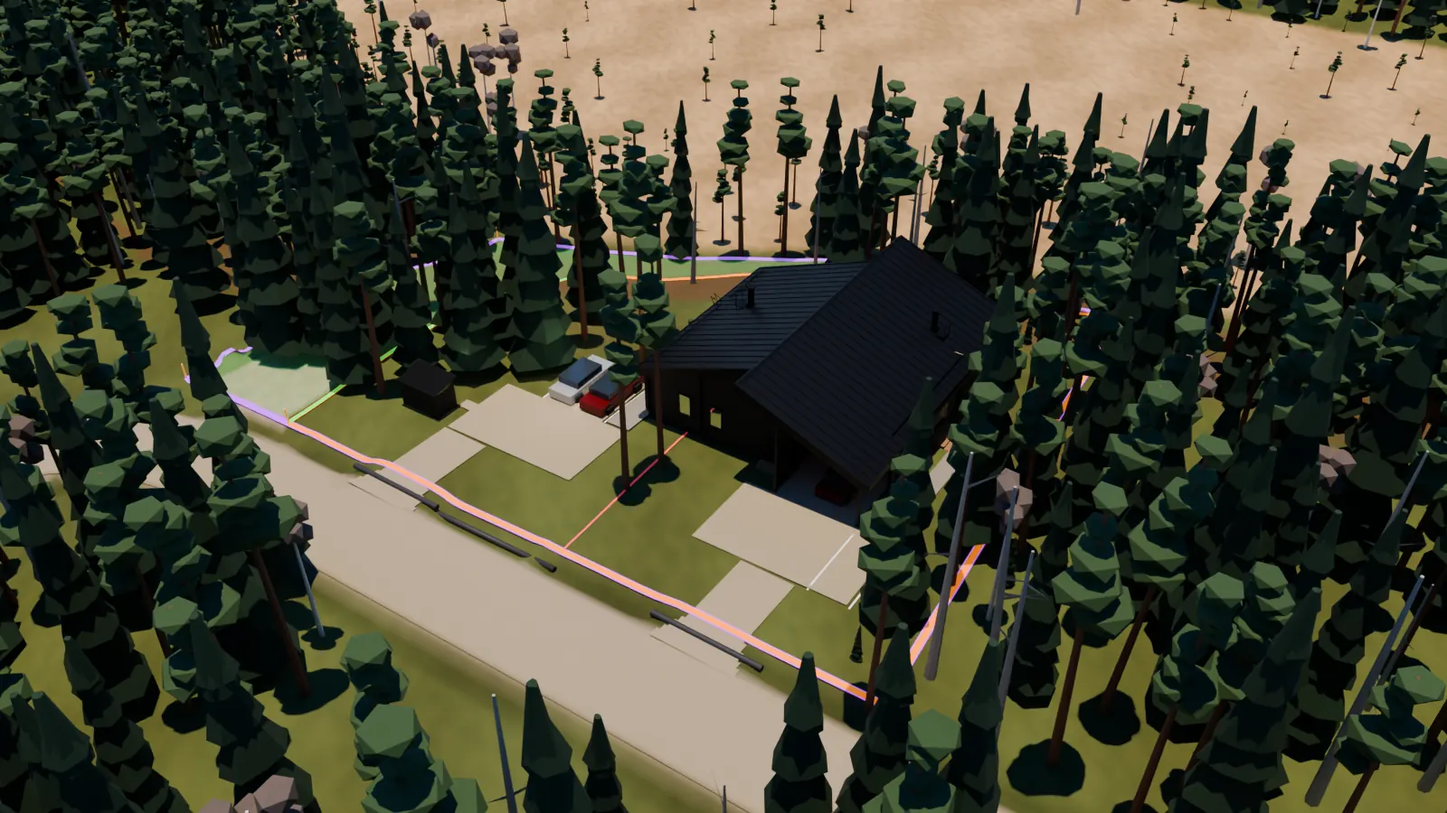
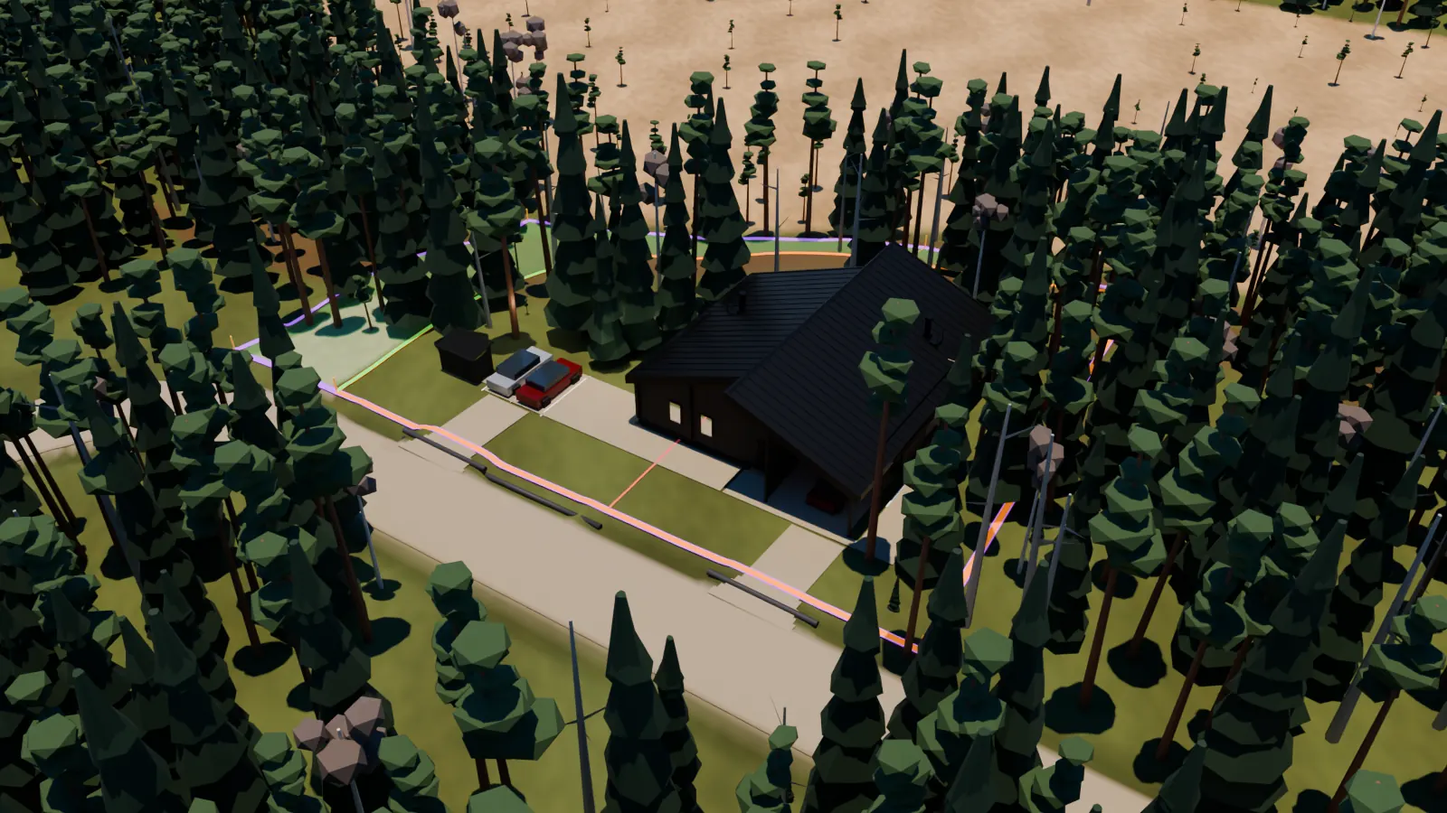
versio-c: päävaihtoehto C2 – talo 5,0 m pohjoiseen (seinät 7,4 m tierajasta), FFL +321,65, täyttö talon alle 53 m³ (ennen 95,5), L1 4,9 % / L2 4,2 %, omat paikat liittymien kohdalla, kuivatus itään; kuva 1 suolle + 3D-vertailunäkymät; C-vertailutaulukko

diff --git a/versio-c/index.html b/versio-c/index.html
@@ -1,7 +1,7 @@
 <!doctype html><html lang="fi"><head><meta charset="utf-8">
 <meta name="viewport" content="width=device-width,initial-scale=1,viewport-fit=cover">
 <title>Tontti 4 – paritalo – VERSIO C (kaavan mukainen tontti + viheralue, luonnos)</title>
-<meta name="tontti4-versio" content="versio-c-kaava-viheralue-kevyt">
+<meta name="tontti4-versio" content="versio-c2-kaava-viheralue-talo-5m-pohjoiseen">
 <meta name="robots" content="noindex">
 <style>
 :root{--bg:#9fc2e6;--card:rgba(20,22,26,.86);--fg:#f3f4f6;--mut:#c9ced6;--acc:#ffb74d;--grn:#81c784;--vio:#ce93d8}
@@ -22,87 +22,112 @@ table{width:100%;border-collapse:collapse;font-size:13px}td,th{border-bottom:1px
 ul{padding-left:20px;margin:6px 0}li{margin:3px 0}
 .note{font-size:13px;color:var(--mut)}.ok{color:var(--grn)}.warn{color:#ffcc80}
 a{color:#90caf9}
-</style></head><body>
+</style>
 <header>
 <div class="badge">Versio C – kaavan mukainen tontti + viheralue, luonnos</div>
 <h1>Joiku 184 -paritalo · tontti 4, Siimapolku, Ruka</h1>
-<p class="sub">Rukan asemakaava, muutos kortteleissa 199, 199A ja 200 – kortteli 199a, tontti 4 (RA 200 + t40). Myytävä määräala = kaavatontti + sen itä- ja eteläpuolinen viheralue. Kaksi liittymää Siimapolulta: <b>L1</b> asunnolle A (länsi, vuokra, parvi, autokatos) ja <b>L2</b> asunnolle B (itä). Kevyt mobiiliversio (kuvat), HD-versio tehdään myöhemmin.</p>
-<nav><a href="#luvut">Avainluvut</a><a href="#asema">Asemapiirros</a><a href="#korot">Korot</a><a href="#nakymat">3D-näkymät</a><a href="#liittymat">Liittymät</a><a href="#maa">Maarakennus</a><a href="#maaraala">Määräala</a><a href="#auki">Avoimet kysymykset</a></nav>
+<p class="sub"><b>Päävaihtoehto C2:</b> talo siirretty <b>5,0 m pohjoiseen</b> eli lähemmäs Siimapolkua (seinät nyt 7,4 m tierajasta, aiemmin 12,4 m), lattia <b>+321,65</b>. Kaksi liittymää: <b>L1</b> asunnolle A (länsi, vuokra, parvi, autokatos) ja <b>L2</b> asunnolle B (itä), kumpikin omille paikoilleen. Rukan asemakaava, kortteli 199a, tontti 4 (RA 200 + t40). Myytävä määräala = kaavatontti + viheralue VR. Kevyt mobiiliversio, HD-versio myöhemmin.</p>
+<nav><a href="#luvut">Avainluvut</a><a href="#vertailu">C vs. C2</a><a href="#asema">Asemapiirros</a><a href="#suo">Näkymä suolle</a><a href="#korot">Korot</a><a href="#nakymat">3D-näkymät</a><a href="#liittymat">Liittymät</a><a href="#maa">Maarakennus</a><a href="#maaraala">Määräala</a><a href="#auki">Avoimet kysymykset</a></nav>
 </header>
-<section id="luvut"><h2>Avainluvut</h2><div class="grid">
-<div class="k"><b>2 101,7 m²</b><span>myytävä määräala yhteensä (kuvasta mitattu 2 127,0 m²)</span></div>
-<div class="k"><b>1 559,1 m²</b><span>kaavatontti 4, RA (kuvasta 1 573,1 m²)</span></div>
-<div class="k"><b>542,6 m²</b><span>viheralue VR, ei rakennuksia (kuvasta 553,9 m²)</span></div>
-<div class="k"><b>+321,60</b><span>lattiakorko N2000 (ennallaan kaavasijoituksesta)</span></div>
-<div class="k"><b>199,9 / 200 k-m²</b><span>asuinrakennus (183,5 + parvi 16,44)</span></div>
-<div class="k"><b>38,3 / 40 m²</b><span>t-ala: autokatos 33,2 + jätekatos 5,1 (oletus)</span></div>
-<div class="k"><b>≈ 120 m³</b><span>täyttö yht. (talo 95,5 + piha/ajo 24,0), leikkaus ≈ 9 m³ – DEM</span></div>
-<div class="k"><b>4,2 % / 5,0 %</b><span>liittymien L1 / L2 kaltevuus</span></div>
-<div class="k"><b>4 ap</b><span>autokatos + PA (A), P1 + P2 (B); vaatimus 3</span></div>
-<div class="k"><b>285,5 m²</b><span>katot + autokatos = 18,1 % kaavatontista</span></div>
-<div class="k"><b>5,4 / 12,4 m</b><span>seinät länsirajaan / Siimapolun rajaan</span></div>
-<div class="k"><b>12,0 / 19,4 m</b><span>seinät etelä- / itärajaan (viheralue)</span></div>
+<section id="luvut"><h2>Avainluvut (C2)</h2><div class="grid">
+<div class="k"><b>5,0 m</b><span>siirto pohjoiseen (tietä kohti) aiemmasta C-sijainnista</span></div>
+<div class="k"><b>+321,65</b><span>lattiakorko N2000 (aiemmin +321,60)</span></div>
+<div class="k"><b>53,0 m³</b><span>täyttö talon alle (aiemmin 95,5 m³)</span></div>
+<div class="k"><b>≈ 80 m³</b><span>täyttö yht. (talo + piha/ajo 26,7), leikkaus ≈ 12 m³</span></div>
+<div class="k"><b>4,9 % / 4,2 %</b><span>liittymien L1 / L2 kaltevuus, laskee tontille</span></div>
+<div class="k"><b>0,75–1,40 m</b><span>terassipilarit (aiemmin 1,04–1,67 m)</span></div>
+<div class="k"><b>7,4 / 5,36 m</b><span>seinät / räystäs Siimapolun rajaan</span></div>
+<div class="k"><b>5,7 / 16,7 / 19,3 m</b><span>seinät länsi- / etelä- / itärajaan</span></div>
+<div class="k"><b>31,0 m²</b><span>sp-kaistaa käytetty (vain 2 liittymää), kaista 186 m²</span></div>
+<div class="k"><b>4 ap</b><span>A: autokatos + PA, B: P1 + P2 (vaatimus 3)</span></div>
+<div class="k"><b>2 101,7 m²</b><span>myytävä määräala: kaavatontti 1 559,1 + VR 542,6</span></div>
+<div class="k"><b>199,9 / 200 k-m²</b><span>asuinrakennus; t-ala 38,3 / 40 m² (autokatos + JK)</span></div>
 </div></section>
-<section id="asema"><h2>Asemapiirros</h2>
-<figure><a href="kuvat/asemapiirros_c.webp" target="_blank" rel="noopener"><img src="kuvat/asemapiirros_c.webp" alt="Versio C asemapiirros" width="1506" height="1298"></a>
-<figcaption>Oranssi = kaavatontti, vihreä vinoviivoitus = viheralue VR, violetti katkoviiva = myytävä määräala, haalea punainen pisteviiva = nykyiset kiinteistörajat 21–51–17–38 (vertailu). Taustalla MML-ortokuva. Napauta kuvaa suurentaaksesi.</figcaption></figure>
+<section id="vertailu"><h2>Vertailu: C (12,4 m tiestä) vs. C2 / uusi</h2>
+<div class="tw"><table><tr><th></th><th>C (12,4 m tiestä)</th><th>C2 / uusi (valittu)</th></tr><tr><td>Seinät Siimapolun rajaan</td><td>12,4 m</td><td><b>7,4 m</b></td></tr><tr><td>Räystäs / autokatos Siimapolun rajaan</td><td>10,4 m</td><td><b>5,4 m (≥ 4 m)</b></td></tr><tr><td>Seinät länsi- / etelä- / itärajaan</td><td>5,4 / 12,0 / 19,4 m</td><td><b>5,7 / 16,7 / 19,3 m</b></td></tr><tr><td>Räystäs länsirajaan</td><td>4,74 m</td><td><b>5,05 m</b></td></tr><tr><td>Lattiakorko (FFL)</td><td>+321,60</td><td><b>+321,65</b></td></tr><tr><td>Täyttö talon alle (tasoon FFL − 0,5)</td><td>95,5 m³</td><td><b>53,0 m³</b></td></tr><tr><td>Täyttö / leikkaus yhteensä (talo + pihat + ajo)</td><td>120 / 9 m³</td><td><b>80 / 12 m³</b></td></tr><tr><td>Terassipilarit</td><td>1,04…1,67 m</td><td><b>0,75…1,40 m</b></td></tr><tr><td>Liittymä L1 / L2 kaltevuus</td><td>4,2 / 5,0 %</td><td><b>4,9 / 4,2 %</b></td></tr><tr><td>sp-kaistaa käytetty</td><td>31,0 m² (2 liittymää)</td><td><b>31,0 m² (2 liittymää)</b></td></tr><tr><td>Pysäköinti</td><td>4 ap, yhteinen leveä piha (5,75 m syvä)</td><td><b>4 ap: A autokatos + PA, B P1–P2 suoraan L2:sta</b></td></tr><tr><td>Pihaa (sora) yhteensä</td><td>n. 115 m² + ap</td><td><b>n. 71 m² + ap</b></td></tr><tr><td>Talon eteläpuolinen piha-/puustoalue etelärajaan</td><td>12,0 m</td><td><b>16,7 m</b></td></tr></table></div>
+<p class="note">Siirto pohjoiseen vähentää täyttöä, koska maa laskee etelään. Kahden liittymän ratkaisussa isoa yhteistä pihaa ei tarvita: autot ajavat sp-kaistan läpi suoraan omille paikoilleen. 5 m on suurin järkevä siirto: autokatoksen eteen jää 0,75 m pihaa ja räystäs on 1,0 m sp-kaistasta. Suurempi siirto veisi autokatoksen kiinni sp-kaistaan, eikä sp-kaistaa käytetä pihaksi.</p>
+<figure><a href="kuvat/asemapiirros_c_aiempi.webp" target="_blank" rel="noopener"><img src="kuvat/asemapiirros_c_aiempi.webp" alt="Aiempi C (vertailu): talo 12,4 m tierajasta, yhteinen leveä piha." loading="lazy" width="900" height="776"></a><figcaption>Aiempi C (vertailu): talo 12,4 m tierajasta, yhteinen leveä piha.</figcaption></figure>
+</section>
+<section id="asema"><h2>Asemapiirros (C2)</h2>
+<figure><a href="kuvat/asemapiirros_c2.webp" target="_blank" rel="noopener"><img src="kuvat/asemapiirros_c2.webp" alt="Versio C2: talo siirretty 5,0 m pohjoiseen. Harmaa katkoviiva = aiempi C-sijainti. Punainen 1 = käyttäjän kuva suolle (suunta arvio). Siniset nuolet = pihan vesien kulku itään. Napauta suurentaaksesi." width="1506" height="1299"></a><figcaption>Versio C2: talo siirretty 5,0 m pohjoiseen. Harmaa katkoviiva = aiempi C-sijainti. Punainen 1 = käyttäjän kuva suolle (suunta arvio). Siniset nuolet = pihan vesien kulku itään. Napauta suurentaaksesi.</figcaption></figure>
+
 <ul>
-<li>Talo on samassa kohdassa kuin aiempi kaavan mukainen sijoitus (siirto alkuperäisestä du −18,5 m / dv +8,0 m, ei kiertoa). Seinät: länsiraja 5,4 m, Siimapolku 12,4 m, eteläraja 12,0 m, itäraja 19,4 m; räystään lounaiskulma 4,74 m länsirajasta (≥ 4 m).</li>
-<li><b>L1</b> (A): piha A 10,1 × 5,75 m autokatoksen edessä, lisäpaikka <b>PA</b> pihan länsipäässä. <b>L2</b> (B): piha B, <b>P1–P2</b> (2 × 2,5 × 5 m) ja <b>jätekatos JK</b> 3,0 × 1,7 m L2:n vieressä (itärajaan 5,3 m, tierajaan 5,1 m). Liittymien keskiväli 21,9 m.</li>
-<li>sp-kaistaa (säilytettävä puusto, 186 m²) käytetään vain kahteen kohtisuoraan 3,5 m:n ajoyhteyteen, yhteensä <b>31,0 m²</b>; levennykset vain katualueella ojan kohdalla (rummut).</li>
+<li>Talo on siirretty 5,0 m pohjoiseen aiemmasta C-sijainnista (ei kiertoa). Seinät: Siimapolku 7,4 m, länsiraja 5,7 m, eteläraja 16,7 m, itäraja 19,3 m. Räystäs Siimapolun rajaan 5,36 m ja länsirajaan 5,05 m (≥ 4 m). Rakennukset ovat kaavatontilla, eivät VR-alueella eivätkä sp-kaistalla.</li>
+<li><b>L1 → asunto A:</b> 3,5 m:n ajoyhteys suoraan autokatokseen. Lisäpaikka <b>PA</b> (2,5 × 5 m) on autokatoksen länsipuolella A:n päädyn vieressä, ja sieltä on käytävä A:n ovelle.</li>
+<li><b>L2 → asunto B:</b> P1–P2 (2 × 2,5 × 5 m) suoraan L2:n jatkeena. Jätekatos JK 3,0 × 1,7 m on L2:n vieressä (itärajaan 4,8 m, tierajaan 5,1 m). Piha B ja käytävä B:n ovelle ovat talon itäpuolella. Liittymien keskiväli on 22,8 m.</li>
+<li>sp-kaistaa (186 m²) käytetään vain kahteen kohtisuoraan 3,5 m:n ajoyhteyteen, yhteensä <b>31,0 m²</b>. Muuten kaista jää luonnontilaiseksi puustoksi. Levennykset ovat vain katualueella ojan kohdalla (rummut).</li>
 <li>Viheralueelle (VR) ei sijoiteta rakennuksia, pysäköintiä, jätekatosta eikä ajoyhteyttä.</li></ul>
 </section>
+<section id="suo"><h2>Näkymä tontilta suolle (sijainti käyttäjältä, suunta arvio)</h2>
+<figure><a href="kuvat/kuva1_suo.webp" target="_blank" rel="noopener"><img src="kuvat/kuva1_suo.webp" alt="Kuva 1 – Näkymä tontilta suolle (sijainti käyttäjältä, suunta arvio). E 598 677,02 / N 7 340 823,40, maanpinta n. +320,53. Kuvaussuunta n. etelä–kaakko (kompassia ei ole)." loading="lazy" width="900" height="1200"></a><figcaption>Kuva 1 – Näkymä tontilta suolle (sijainti käyttäjältä, suunta arvio). E 598 677,02 / N 7 340 823,40, maanpinta n. +320,53. Kuvaussuunta n. etelä–kaakko (kompassia ei ole).</figcaption></figure>
+
+<div class="grid" style="grid-template-columns:1fr 1fr"><figure><a href="kuvat/c10_suo_silma.webp" target="_blank" rel="noopener"><img src="kuvat/c10_suo_silma.webp" alt="3D-malli samasta paikasta samaan suuntaan, silmäkorkeus 1,6 m maasta (+322,1)." loading="lazy" width="1050" height="1400"></a><figcaption>3D-malli samasta paikasta samaan suuntaan, silmäkorkeus 1,6 m maasta (+322,1).</figcaption></figure>
+<figure><a href="kuvat/c11_suo_terassi.webp" target="_blank" rel="noopener"><img src="kuvat/c11_suo_terassi.webp" alt="3D-malli A:n terassin reunalta, silmä lattiatasosta 1,6 m (+323,25). Vasemmassa alakulmassa terassin reuna." loading="lazy" width="1050" height="1400"></a><figcaption>3D-malli A:n terassin reunalta, silmä lattiatasosta 1,6 m (+323,25). Vasemmassa alakulmassa terassin reuna.</figcaption></figure>
+</div>
+<figure><a href="kuvat/c12_suolta_taloon.webp" target="_blank" rel="noopener"><img src="kuvat/c12_suolta_taloon.webp" alt="Vastanäkymä suolta n. 50 m:n päästä taloa kohti (silmäkorkeus 1,6 m): mitä uudesta talosta näkyy suolle." loading="lazy" width="1600" height="900"></a><figcaption>Vastanäkymä suolta n. 50 m:n päästä taloa kohti (silmäkorkeus 1,6 m): mitä uudesta talosta näkyy suolle.</figcaption></figure>
+
+<ul>
+<li>Kuvauspaikka on kaavatontin eteläosassa noin 1,2 m uuden A-terassin eteläreunan eteläpuolella (paikallisesti u −6,4 / v 26,6). Kuvaussuunta on arvio (n. 160°, etelä–kaakko). Avosuo on n. 40–70 m päässä ja n. 6 m alempana (+314,5).</li>
+<li><b>Terassilta</b> (silmä +323,25 eli n. 2,7 m kuvauspaikan maanpintaa ylempänä) suo näkyy puiden runkojen välistä samalla tavalla kuin kuvassa, mutta aluskasvillisuuden yli. Avara näkymä vaatisi harvennusta talon eteläpuolella (oma tontti, n. 15 m etelärajaan). VR-alueen puusto säilytetään oletuksena.</li>
+<li><b>Suolta katsottuna</b> uusi talo jää lähes kokonaan puuston taakse. Näkyvissä on lähinnä räystäslinjaa ja eteläjulkisivua puiden välistä. Siirto 5 m pohjoiseen lisää suojaavaa puustoa talon ja suon väliin.</li>
+<li class="note">Mallin puut ovat kaaviomaisia (ei puustomittausta). Kuvan sijainti on käyttäjältä, eikä kuvassa ole EXIF-tietoja.</li></ul>
+</section>
 <section id="korot"><h2>Korot ja maasto</h2>
-<figure><a href="kuvat/korkokuva_c.webp" target="_blank" rel="noopener"><img src="kuvat/korkokuva_c.webp" alt="Korkokuva" loading="lazy" width="1445" height="1102"></a>
-<figcaption>Korkokuva: MML 2 m korkeusmalli (N2000), käyrät 0,5 m. Nurkissa maanpinta ja sokkelin näkyvä korkeus lattiasta (+321,60), liittymissä tien reunan ja pihan korot.</figcaption></figure>
-<figure><a href="kuvat/profiili_c.webp" target="_blank" rel="noopener"><img src="kuvat/profiili_c.webp" alt="Maaston profiili" loading="lazy" width="1506" height="758"></a>
-<figcaption>Profiili tien suunnassa: maa nousee länteen; kaavatontin alue on loivempi kuin vanha kiinteistö.</figcaption></figure>
+<figure><a href="kuvat/korkokuva_c2.webp" target="_blank" rel="noopener"><img src="kuvat/korkokuva_c2.webp" alt="Korkokuva: MML 2 m korkeusmalli (N2000), käyrät 0,5 m. Nurkissa luonnon maa ja sokkelin korkeus valmiista maasta (lattia +321,65), liittymissä tien ja pihan korot." loading="lazy" width="1445" height="1102"></a><figcaption>Korkokuva: MML 2 m korkeusmalli (N2000), käyrät 0,5 m. Nurkissa luonnon maa ja sokkelin korkeus valmiista maasta (lattia +321,65), liittymissä tien ja pihan korot.</figcaption></figure>
+
+<figure><a href="kuvat/profiili_c2.webp" target="_blank" rel="noopener"><img src="kuvat/profiili_c2.webp" alt="Ylhäällä profiili tien suunnassa: maa nousee länteen. Alhaalla poikkileikkaus tieltä etelään talo A:n kohdalta: tie → sp-kaista → piha (keltainen) → autokatos → talo. Katkoviiva = aiempi C-sijainti." loading="lazy" width="1506" height="1438"></a><figcaption>Ylhäällä profiili tien suunnassa: maa nousee länteen. Alhaalla poikkileikkaus tieltä etelään talo A:n kohdalta: tie → sp-kaista → piha (keltainen) → autokatos → talo. Katkoviiva = aiempi C-sijainti.</figcaption></figure>
+
+<h3>Kuivatus – piha ei jää kuoppaan</h3>
+<ul>
+<li>Koko etupiha (A + B) on yksi taso. Autokatoksen etureunassa korko on +321,35 (lattia − 0,30). Piha kaatuu <b>itään 2 %</b> ja <b>talosta poispäin pohjoiseen 1,5 %</b> eli sp-kaistan reunan matalaan painanteeseen.</li>
+<li>Piha on lännessä +321,46 eli luonnon maata (+321,65) ja tietä alempana. Itäpäässä se on +320,79 eli <b>luonnon maata (+320,50) ylempänä</b>, joten vedet purkautuvat painovoimaisesti itään luonnon rinteeseen (ei umpinaista kuoppaa).</li>
+<li>Liittymät laskevat tontille. Tien reunaan tehdään 1–2 m:n kynnys tai kaato ojaan päin, jotta tien vedet eivät valu pihalle. Ojaan tulevat rummut.</li>
+<li>Seinien vierus valmiista maasta: sokkeli on vähintään 0,32 m, paitsi autokatoksen sisällä (katettu, 0,16–0,30 m). Talon pohjoisnurkassa luonnon maata muotoillaan paikallisesti alle 0,1 m.</li></ul>
 <h3>Tonttikatselmuksen havainto vs. korkeusmalli</h3>
-<ul><li class="ok">DEM tukee havaintoa: tien varressa maa nousee länteen n. 2,9 m 52 metrillä (n. 5,6 %), Siimapolun reuna liittymien kohdalla L2 +321,22 → L1 +321,71.</li>
-<li class="ok">Kaavatontti on tasaisempi kuin vanha rajaus: keskikaltevuus 12,8 % (mediaani 8,8 %) vs. vanha kiinteistö 18,6 % (mediaani 17,3 %). Viheralue on jyrkin osa (ka 24 %, laskee kaakkoon).</li>
-<li>Maanpinta talon seinien alla 319,81…321,05; sokkeli nurkissa 0,53…1,82 m; terassipilarit 1,04…1,67 m.</li>
-<li class="warn">Uutta paikkaa ei ole mitattu. 24.–25.10. mittaukset vanhalla paikalla: rinne loivempi kuin mallissa, pohjoisosa 0,3–0,6 m alempana ja terassikohdat 0,2–0,8 m ylempänä. Korjausta ei ole siirretty uudelle paikalle; jos sama poikkeama pätisi, talon täyttö olisi vain n. 20–50 m³ ja pilarit lyhyempiä. Herkkyys: ±0,1 m maanpinnassa ≈ ∓19 m³ talon alla.</li>
-<li class="note">Kuvien GPS-korkeus (iPhone) ei kelpaa koroiksi: hyvän tarkkuuden kuvissakin ero korkeusmalliin −4,5…+2,3 m ja huonoissa −13…+37 m.</li></ul>
+<ul><li class="ok">DEM tukee havaintoa: tien varressa maa nousee länteen n. 2,9 m 52 metrillä (n. 5,6 %). Siimapolun reuna on liittymien kohdalla L2 +321,22 → L1 +321,72.</li>
+<li class="ok">Kaavatontti on tasaisempi kuin vanha rajaus: keskikaltevuus 12,8 % vs. vanha kiinteistö 18,6 %. Viheralue on jyrkin osa (ka 24 %).</li>
+<li>Maanpinta talon seinien alla on 320,31…321,45 ja terassipilarit 0,75…1,40 m.</li>
+<li class="warn">Uutta paikkaa ei ole mitattu. 24.–25.10. mittaukset vanhalla paikalla poikkesivat mallista 0,2–0,8 m, mutta korjausta ei ole siirretty tänne. Herkkyys: ±0,1 m maanpinnassa ≈ ∓19 m³ talon alla.</li>
+<li class="note">Kuvien GPS-korkeus (iPhone) ei kelpaa koroiksi: ero korkeusmalliin on −4,5…+2,3 m hyvissäkin kuvissa.</li></ul>
 </section>
-<section id="nakymat"><h2>3D-näkymät (versio B:n malli, C-sijoitus)</h2>
-<figure><a href="kuvat/c09_ilma_pohjoinen.webp" target="_blank" rel="noopener"><img src="kuvat/c09_ilma_pohjoinen.webp" alt="Pohjoisesta Siimapolun yltä: liittymät L2 (vas., asunto B, P1–P2) ja L1 (oik., asunto A, autokatos). Näkymän edustan puita piilotettu." loading="lazy" width="1600" height="900"></a><figcaption>1. Pohjoisesta Siimapolun yltä: liittymät L2 (vas., asunto B, P1–P2) ja L1 (oik., asunto A, autokatos). Näkymän edustan puita piilotettu.</figcaption></figure>
-<figure><a href="kuvat/c01_ilma_luode.webp" target="_blank" rel="noopener"><img src="kuvat/c01_ilma_luode.webp" alt="Ilmasta luoteesta: asunto A, autokatos, PA ja L1 etualalla; violetti = myytävä määräala, oranssi = kaavatontti." loading="lazy" width="1600" height="900"></a><figcaption>2. Ilmasta luoteesta: asunto A, autokatos, PA ja L1 etualalla; violetti = myytävä määräala, oranssi = kaavatontti.</figcaption></figure>
-<figure><a href="kuvat/c02_ilma_koillinen.webp" target="_blank" rel="noopener"><img src="kuvat/c02_ilma_koillinen.webp" alt="Ilmasta koillisesta: L2, piha B, P1–P2 ja jätekatos; vihreä alue = viheralue VR (ei rakenneta)." loading="lazy" width="1600" height="900"></a><figcaption>3. Ilmasta koillisesta: L2, piha B, P1–P2 ja jätekatos; vihreä alue = viheralue VR (ei rakenneta).</figcaption></figure>
-<figure><a href="kuvat/c03_ilma_kaakko.webp" target="_blank" rel="noopener"><img src="kuvat/c03_ilma_kaakko.webp" alt="Ilmasta kaakosta: terassit etelään, viheralueen kiila itä- ja eteläreunassa, rinne laskee kaakkoon." loading="lazy" width="1600" height="900"></a><figcaption>4. Ilmasta kaakosta: terassit etelään, viheralueen kiila itä- ja eteläreunassa, rinne laskee kaakkoon.</figcaption></figure>
+<section id="nakymat"><h2>3D-näkymät (versio B:n malli, C2-sijoitus)</h2>
+<figure><a href="kuvat/c09_ilma_pohjoinen.webp" target="_blank" rel="noopener"><img src="kuvat/c09_ilma_pohjoinen.webp" alt="Pohjoisesta Siimapolun yltä: L2 (vas.) suoraan P1–P2:lle, jätekatos L2:n vieressä; L1 (oik.) suoraan autokatokseen, PA autokatoksen länsipuolella. Talo nyt 7,4 m tierajasta. Näkymän edustan puita piilotettu." loading="lazy" width="1600" height="900"></a><figcaption>1. Pohjoisesta Siimapolun yltä: L2 (vas.) suoraan P1–P2:lle, jätekatos L2:n vieressä; L1 (oik.) suoraan autokatokseen, PA autokatoksen länsipuolella. Talo nyt 7,4 m tierajasta. Näkymän edustan puita piilotettu.</figcaption></figure>
+<figure><a href="kuvat/c01_ilma_luode.webp" target="_blank" rel="noopener"><img src="kuvat/c01_ilma_luode.webp" alt="Ilmasta luoteesta: asunto A, autokatos, PA ja L1; sp-kaistan puusto säilyy liittymien välissä." loading="lazy" width="1600" height="900"></a><figcaption>2. Ilmasta luoteesta: asunto A, autokatos, PA ja L1; sp-kaistan puusto säilyy liittymien välissä.</figcaption></figure>
+<figure><a href="kuvat/c02_ilma_koillinen.webp" target="_blank" rel="noopener"><img src="kuvat/c02_ilma_koillinen.webp" alt="Ilmasta koillisesta: L2, P1–P2 ja jätekatos; vihreä alue = viheralue VR (ei rakenneta)." loading="lazy" width="1600" height="900"></a><figcaption>3. Ilmasta koillisesta: L2, P1–P2 ja jätekatos; vihreä alue = viheralue VR (ei rakenneta).</figcaption></figure>
+<figure><a href="kuvat/c03_ilma_kaakko.webp" target="_blank" rel="noopener"><img src="kuvat/c03_ilma_kaakko.webp" alt="Ilmasta kaakosta: terassit etelään, talon eteläpuolelle jää nyt n. 15–17 m puustoa ennen viheraluetta." loading="lazy" width="1600" height="900"></a><figcaption>4. Ilmasta kaakosta: terassit etelään, talon eteläpuolelle jää nyt n. 15–17 m puustoa ennen viheraluetta.</figcaption></figure>
 <figure><a href="kuvat/c04_ilma_lounas.webp" target="_blank" rel="noopener"><img src="kuvat/c04_ilma_lounas.webp" alt="Ilmasta lounaasta: A:n länsipääty ja terassi, tontin 3 raja vasemmalla." loading="lazy" width="1600" height="900"></a><figcaption>5. Ilmasta lounaasta: A:n länsipääty ja terassi, tontin 3 raja vasemmalla.</figcaption></figure>
-<figure><a href="kuvat/c05_tie_luode.webp" target="_blank" rel="noopener"><img src="kuvat/c05_tie_luode.webp" alt="Siimapolulta luoteesta silmänkorkeudelta: L1 ja autokatos (edustan puita piilotettu)." loading="lazy" width="1600" height="900"></a><figcaption>6. Siimapolulta luoteesta silmänkorkeudelta: L1 ja autokatos (edustan puita piilotettu).</figcaption></figure>
-<figure><a href="kuvat/c06_tie_koillinen.webp" target="_blank" rel="noopener"><img src="kuvat/c06_tie_koillinen.webp" alt="Siimapolulta koillisesta: jätekatos, L2 ja B:n pääty; vihreä raja = viheralueen ja kaavatontin raja." loading="lazy" width="1600" height="900"></a><figcaption>7. Siimapolulta koillisesta: jätekatos, L2 ja B:n pääty; vihreä raja = viheralueen ja kaavatontin raja.</figcaption></figure>
+<figure><a href="kuvat/c05_tie_luode.webp" target="_blank" rel="noopener"><img src="kuvat/c05_tie_luode.webp" alt="Siimapolulta luoteesta silmänkorkeudelta: L1, autokatos ja A:n pohjoispääty (edustan puita piilotettu)." loading="lazy" width="1600" height="900"></a><figcaption>6. Siimapolulta luoteesta silmänkorkeudelta: L1, autokatos ja A:n pohjoispääty (edustan puita piilotettu).</figcaption></figure>
+<figure><a href="kuvat/c06_tie_koillinen.webp" target="_blank" rel="noopener"><img src="kuvat/c06_tie_koillinen.webp" alt="Siimapolulta koillisesta: jätekatos, L2 ja P1–P2; vihreä raja = viheralueen ja kaavatontin raja." loading="lazy" width="1600" height="900"></a><figcaption>7. Siimapolulta koillisesta: jätekatos, L2 ja P1–P2; vihreä raja = viheralueen ja kaavatontin raja.</figcaption></figure>
 <figure><a href="kuvat/c07_etela_drooni.webp" target="_blank" rel="noopener"><img src="kuvat/c07_etela_drooni.webp" alt="Etelästä n. 6 m korkeudelta: terassit ja pilarit (DEM-maanpinnalla), edustan puita piilotettu." loading="lazy" width="1600" height="900"></a><figcaption>8. Etelästä n. 6 m korkeudelta: terassit ja pilarit (DEM-maanpinnalla), edustan puita piilotettu.</figcaption></figure>
-<figure><a href="kuvat/c08_ylhaalta.webp" target="_blank" rel="noopener"><img src="kuvat/c08_ylhaalta.webp" alt="Suoraan ylhäältä (pohjoinen ylhäällä): rajat, talo, pihat ja molemmat liittymät." loading="lazy" width="1600" height="1400"></a><figcaption>9. Suoraan ylhäältä (pohjoinen ylhäällä): rajat, talo, pihat ja molemmat liittymät.</figcaption></figure>
-<p class="note">Renderöinnit: versio B:n Blender-malli (kopio), talo siirretty C-paikalle ja lattia nostettu +0,20 m, maasto MML 2 m DEM, pihat ja liittymät suunnitelluissa koroissaan. Rakennusten ja pihojen kohdalta poistettu 36 puuta, vanhalle paikalle lisätty 26 puuta. Viivat: violetti = määräala, oranssi = kaavatontti, vihreä = viheralue, punainen = vanha kiinteistöraja, oranssit tolpat = kulmat.</p>
+<figure><a href="kuvat/c08_ylhaalta.webp" target="_blank" rel="noopener"><img src="kuvat/c08_ylhaalta.webp" alt="Suoraan ylhäältä (pohjoinen ylhäällä): rajat, talo, pihat ja molemmat liittymät." loading="lazy" width="1400" height="1400"></a><figcaption>9. Suoraan ylhäältä (pohjoinen ylhäällä): rajat, talo, pihat ja molemmat liittymät.</figcaption></figure>
+<p class="note">Renderöinnit on tehty versio B:n Blender-mallin kopiosta. Talo on siirretty C2-paikalle ja lattia nostettu +0,25 m (+321,65). Maasto on MML 2 m DEM, ja pihat ja liittymät ovat suunnitelluissa koroissaan. sp-kaistan puut säilytetään (poistettu vain liittymien kohdalta). Viivat: violetti = määräala, oranssi = kaavatontti, vihreä = viheralue, punainen = vanha kiinteistöraja, oranssit tolpat = kulmat.</p>
 </section>
-<section id="liittymat"><h2>Liittymät</h2><div class="tw"><table><tr><th>Liittymä</th><th>Keskilinja tonttirajalla E / N (EPSG:3067)</th><th>Leveys</th><th>Korot: ajoradan reuna → tonttiraja → pihan reuna</th><th>Kaltevuus (7,3 m)</th><th>sp-kaistassa</th></tr><tr><td><b>L1</b> (asunto A, länsi)</td><td>598 675,56 / 7 340 849,72</td><td>3,5 m (5,5 m ajoradan reunassa)</td><td>321,71 → 321,60 → 321,40</td><td><b>4,2 %</b> laskee tontille</td><td>15,4 m²</td></tr><tr><td><b>L2</b> (asunto B, itä)</td><td>598 697,38 / 7 340 847,39</td><td>3,5 m (5,5 m ajoradan reunassa)</td><td>321,22 → 321,09 → 320,85</td><td><b>5,0 %</b> laskee tontille</td><td>15,6 m²</td></tr></table></div>
-<p class="note">Molemmissa rumpu ojan kohdalla (Ø 300–400). Piha on Siimapolkua alempana, joten liittymät laskevat tontille: tien reunaan kynnys/kaato, pihan vedet itään (pihakaivo tai imeytys). L2:n kohdalla pihaa nostettu n. 0,15 m, jotta kaltevuus on ≤ 5 %.</p></section>
+<section id="liittymat"><h2>Liittymät</h2><div class="tw"><table><tr><th>Liittymä</th><th>Keskilinja tonttirajalla E / N (EPSG:3067)</th><th>Leveys</th><th>Korot: ajoradan reuna → tonttiraja → pihan reuna</th><th>Kaltevuus (7,3 m)</th><th>sp-kaistassa</th></tr><tr><td><b>L1</b> (asunto A, länsi)</td><td>598 674,76 / 7 340 849,80</td><td>3,5 m (5,5 m ajoradan reunassa)</td><td>321,72 → 321,60 → 321,37</td><td><b>4,9 %</b> laskee tontille</td><td>15,4 m²</td></tr><tr><td><b>L2</b> (asunto B, itä)</td><td>598 697,38 / 7 340 847,39</td><td>3,5 m (5,5 m ajoradan reunassa)</td><td>321,22 → 321,11 → 320,91</td><td><b>4,2 %</b> laskee tontille</td><td>15,6 m²</td></tr></table></div>
+<p class="note">Molemmissa liittymissä on rumpu ojan kohdalla (Ø 300–400). L1 kulkee suoraan autokatokseen (keskilinja 1,3 m autokatoksen keskilinjasta länteen). PA:lle ajetaan viistosti tai peruuttaen. L2 johtaa suoraan P1–P2:lle.</p></section>
 <section id="maa"><h2>Maarakennus (MML 2 m DEM)</h2><div class="tw"><table><tr><th>Osa</th><th>Ala m²</th><th>Täyttö m³</th><th>Leikkaus m³</th></tr>
-<tr><td>Talon alla (tasoon lattia −0,50 = +321,10)</td><td>194</td><td>95,5</td><td>0,0</td></tr><tr><td>L1 (tontilla+katualueella)</td><td>29</td><td>0,3</td><td>1,6</td></tr><tr><td>L2 (tontilla+katualueella)</td><td>29</td><td>9,5</td><td>0,0</td></tr><tr><td>piha A + autokatoksen pohja</td><td>88</td><td>5,4</td><td>7,8</td></tr><tr><td>piha B + P1–P2 + JK</td><td>86</td><td>7,3</td><td>0,0</td></tr><tr><td>käytävät</td><td>29</td><td>1,5</td><td>0,0</td></tr>
-<tr><td><b>Yhteensä</b></td><td></td><td><b>120</b></td><td><b>9</b></td></tr></table></div>
-<p class="note">Valmiin pinnan tasaus, ilman rakennekerroksia ja routaeristystä. Piha A + autokatos: taso +321,30 autokatoksen kohdalla, kaato itään 2,5 % ja etelään 1 %. Piha B ja P1–P2 kaato n. 3,9 %.</p>
-<h3>Kannattaako taloa siirtää?</h3><div class="tw"><table><tr><th>Siirto nykyisestä C-paikasta</th><th>Lattia</th><th>Talon täyttö</th><th>Huom.</th></tr>
-<tr><td>1,5 m länteen</td><td>+321,65</td><td>94,0 m³</td><td class="warn">räystäs 3,3 m länsirajasta (&lt; 4 m)</td></tr>
-<tr><td><b>ei siirtoa (valittu)</b></td><td>+321,60</td><td>95,5 m³</td><td class="ok">kaavan ohjeellinen rakennusala, ≥ 4 m rajoista</td></tr>
-<tr><td>2 m etelään</td><td>+321,50</td><td>96,2 m³</td><td>ei hyötyä, piha syvenee</td></tr>
-<tr><td>3 m itään</td><td>+321,55</td><td>109,7 m³</td><td>pilarit pidemmät (max 2,2 m)</td></tr>
-<tr><td>6 m itään</td><td>+321,50</td><td>126,4 m³</td><td>pilarit max 2,5 m</td></tr></table></div>
-<p class="note">Viheralue ei lisää rakennuskelpoista alaa, ja kaksi liittymää mahtuu nykyiselle paikalle (L1 länsirajasta 7,1 m, L2 itärajasta 8,5 m). Itään siirto lisäisi täyttöä, koska maa laskee itään ja etelään. Siksi talo pidetään paikallaan.</p></section>
+<tr><td>Talon alla (tasoon lattia −0,50)</td><td>191</td><td>53,0</td><td>2,9</td></tr><tr><td>L1 (tontilla+katualueella)</td><td>29</td><td>0,1</td><td>2,4</td></tr><tr><td>L2 (tontilla+katualueella)</td><td>29</td><td>10,2</td><td>0,0</td></tr><tr><td>piha A + autokatoksen pohja</td><td>65</td><td>2,4</td><td>6,7</td></tr><tr><td>piha B + P1–P2 + JK</td><td>78</td><td>13,6</td><td>0,5</td></tr><tr><td>käytävät</td><td>9</td><td>0,4</td><td>0,0</td></tr>
+<tr><td><b>Yhteensä</b></td><td></td><td><b>80</b></td><td><b>12</b></td></tr></table></div>
+<p class="note">Luvut ovat valmiin pinnan tasausta, ilman rakennekerroksia ja routaeristystä. Leikattu maa (n. 12 m³) voidaan käyttää täyttöön.</p>
+<h3>Lattiakoron valinta (siirto 5,0 m)</h3><div class="tw"><table><tr><th>FFL</th><th>Talon täyttö m³</th><th>Täyttö / leikkaus yht. m³</th><th>L1 / L2 %</th><th>Pilarit m</th><th>Piha A luonnon maan alla (m)</th><th>Huom.</th></tr><tr><td>+321,55</td><td>37,5</td><td>55 / 24</td><td>6,3 / 5,6</td><td>0,65…1,30</td><td>0,29</td><td>sokkeli alle 0,3 m pohjoisseinällä ilman leikkausta, L1 jyrkkä</td></tr><tr><td>+321,60</td><td>45,0</td><td>67 / 18</td><td>5,6 / 4,9</td><td>0,70…1,35</td><td>0,24</td><td>toimii, piha A 0,24 m luonnon maata alempana</td></tr><tr><td><b>+321,65 (valittu)</b></td><td><b>53,0</b></td><td><b>80 / 13</b></td><td><b>4,9 / 4,2</b></td><td><b>0,75…1,40</b></td><td><b>0,19</b></td><td>liittymät &lt; 5 %, sokkeli ≥ 0,3 m (autokatosta lukuun ottamatta), kuivatus itään</td></tr><tr><td>+321,70</td><td>61,6</td><td>94 / 8</td><td>4,2 / 3,5</td><td>0,80…1,45</td><td>0,14</td><td>eniten täyttöä, ei lisähyötyä</td></tr></table></div>
+<h3>Siirron määrä (FFL +321,65)</h3><div class="tw"><table><tr><th>Siirto pohjoiseen</th><th>Talon täyttö</th><th>Täyttö yht.</th><th>L1 / L2</th><th>Huom.</th></tr>
+<tr><td>0 m (C, jos FFL +321,65)</td><td>n. 105 m³</td><td>–</td><td>–</td><td>aiempi sijainti</td></tr>
+<tr><td>4,0 m</td><td>62,9 m³</td><td>90 m³</td><td>5,1 / 4,4 %</td><td>toimii</td></tr>
+<tr><td>4,5 m</td><td>57,9 m³</td><td>85 m³</td><td>5,0 / 4,3 %</td><td>toimii</td></tr>
+<tr><td><b>5,0 m (valittu)</b></td><td><b>53,0 m³</b></td><td><b>80 m³</b></td><td><b>4,9 / 4,2 %</b></td><td class="ok">räystäs 5,4 m tierajasta, autokatoksen eteen 0,75 m pihaa ennen sp-kaistaa</td></tr>
+<tr><td>yli 5,0 m</td><td>–</td><td>–</td><td>–</td><td class="warn">autokatos tulisi kiinni sp-kaistaan</td></tr></table></div></section>
 <section id="maaraala"><h2>Määräala ja georeferointi</h2>
-<p>Käyttäjän kuva on georeferoitu 20 kuvasta tunnistetulla MML-rajamerkillä (yhdenmuotoisuusmuunnos, RMS 0,09 m, pikseli 0,11 m). Viheralueen itä- ja eteläreuna kulkee rajamerkkien 51, 17 ja 38 kautta (kuvassa 0,2–0,4 m:n päässä), joten ne on otettu MML-koordinaateista. Kaavatontin kulmat K1–K4 on luettu kuvan viivoista (arvioitu tarkkuus n. 0,2 m).</p>
+<p>Käyttäjän kuva on georeferoitu 20 MML-rajamerkillä (yhdenmuotoisuusmuunnos, RMS 0,09 m). Viheralueen itä- ja eteläreuna kulkee rajamerkkien 51, 17 ja 38 kautta (MML-koordinaatit). Kaavatontin kulmat K1–K4 on luettu kuvasta (tarkkuus n. 0,2 m).</p>
 <div class="tw"><table><tr><th>Piste</th><th>E</th><th>N</th></tr><tr><td>K1</td><td>598 666,26</td><td>7 340 850,71</td></tr><tr><td>K2</td><td>598 708,18</td><td>7 340 846,24</td></tr><tr><td>K3</td><td>598 705,82</td><td>7 340 816,07</td></tr><tr><td>K4</td><td>598 664,05</td><td>7 340 805,35</td></tr><tr><td>51</td><td>598 718,99</td><td>7 340 844,83</td></tr><tr><td>17</td><td>598 716,57</td><td>7 340 813,26</td></tr><tr><td>38</td><td>598 682,24</td><td>7 340 804,29</td></tr></table></div>
-<ul><li>Alat kuvasta: kaavatontti 1 573,1 m² (ilmoitettu 1 559,1; +14,0 m² = +0,9 %), viheralue 553,9 m² (542,6; +11,3 m² = +2,1 %). Ero selittyy viivan paksuudella: 0,09 / 0,07 m:n siirto reunoissa sisäänpäin täsmäyttää alat.</li>
-<li>Kaavakuvasta aiemmin digitoitu tontti (1 552 m²) poikkeaa itäreunalla 1,2–1,7 m; myyntikuvan rajaus on otettu suunnittelun pohjaksi. Nykyinen kiinteistö 21–51–17–38 jää kokonaan määräalan sisään.</li>
-<li><b>Viheralue on kaavassa VR – retkeily- ja ulkoilualue</b> (ei VL). Oletus: ei rakentamista, pysäköintiä eikä ajoyhteyttä; puusto säilytetään. Kevyt käyttö (polku, istutus, lumen läjitys) on luultavasti mahdollinen. Lähin luo-alue alkaa n. 8–10 m määräalan itärajasta.</li></ul>
-<h3>Talon nurkat (EPSG:3067) ja sokkelin korkeus</h3><div class="tw"><table><tr><th>Nurkka</th><th>E</th><th>N</th><th>Lattia − maa (m)</th></tr><tr><td>SA1</td><td>598 671,51</td><td>7 340 833,61</td><td>0,56</td></tr><tr><td>SA2</td><td>598 677,62</td><td>7 340 837,00</td><td>0,53</td></tr><tr><td>SA3</td><td>598 679,91</td><td>7 340 836,75</td><td>0,59</td></tr><tr><td>SA4</td><td>598 678,21</td><td>7 340 821,41</td><td>1,30</td></tr><tr><td>SA5</td><td>598 670,26</td><td>7 340 822,29</td><td>1,03</td></tr><tr><td>SB1</td><td>598 687,86</td><td>7 340 835,87</td><td>0,76</td></tr><tr><td>SB2</td><td>598 686,61</td><td>7 340 824,61</td><td>1,82</td></tr><tr><td>SB3</td><td>598 678,66</td><td>7 340 825,49</td><td>1,12</td></tr></table></div></section>
+<ul><li>Alat kuvasta: kaavatontti 1 573,1 m² (ilmoitettu 1 559,1; +0,9 %) ja viheralue 553,9 m² (542,6; +2,1 %). Ero selittyy viivan paksuudella (0,09 / 0,07 m).</li>
+<li><b>Viheralue on kaavassa VR – retkeily- ja ulkoilualue</b> (ei VL). Oletus: ei rakentamista, pysäköintiä eikä ajoyhteyttä, ja puusto säilytetään.</li></ul>
+<h3>Talon nurkat (EPSG:3067) ja sokkeli valmiista maasta</h3><div class="tw"><table><tr><th>Nurkka</th><th>E</th><th>N</th><th>Lattia − maa (m)</th></tr><tr><td>SA1 (autokatoksen sisällä)</td><td>598 672,06</td><td>7 340 838,58</td><td>0,17</td></tr><tr><td>SA2</td><td>598 678,17</td><td>7 340 841,97</td><td>0,32</td></tr><tr><td>SA3</td><td>598 680,46</td><td>7 340 841,72</td><td>0,37</td></tr><tr><td>SA4</td><td>598 678,76</td><td>7 340 826,38</td><td>1,17</td></tr><tr><td>SA5</td><td>598 670,81</td><td>7 340 827,26</td><td>0,85</td></tr><tr><td>SB1</td><td>598 688,41</td><td>7 340 840,84</td><td>0,53</td></tr><tr><td>SB2</td><td>598 687,16</td><td>7 340 829,58</td><td>1,35</td></tr><tr><td>SB3</td><td>598 679,21</td><td>7 340 830,46</td><td>0,97</td></tr></table></div></section>
 <section id="auki"><h2>Avoimet kysymykset</h2><ul>
-<li>Saako kaavatontille kaksi liittymää Siimapolulta (katualue /mo, maanomistajan toteutettava)? Tarvitaan kadun omistajan ja kaupungin hyväksyntä.</li>
-<li>Viheralueen (VR) käyttö: tuleeko se osaksi samaa kiinteistöä, ja sallitaanko sinne istutuksia, polku tai lumen läjitys? Ajoyhteys VR-alueelle vaatisi kaupungin luvan, eikä sitä ole tässä oletettu.</li>
-<li>Määräalan tarkat rajapisteet (K1–K4) ja pinta-alat: täsmentyvät lohkomisen maanmittauksessa (kuvan perusteella ±0,2 m).</li>
-<li>Lasketaanko autokatos (33,2 m²) ja jätekatos (5,1 m²) t-alaan? Yhteensä 38,3 / 40 m².</li>
-<li>Korot uudella paikalla pitäisi mitata (vähintään talon nurkat ja liittymien kohdat), koska mittaukset vanhalla paikalla poikkesivat mallista 0,2–0,8 m.</li>
-<li>Pihan kuivatus: piha on tietä alempana, joten tarvitaan rummut ja pihan vesien johtaminen itään tai imeytys.</li></ul>
-<p class="note">Luonnos, ei rakennuslupakelpoinen. Korot: MML 2 m korkeusmalli (N2000), koordinaatit EPSG:3067. Laadittu 27.10.2026.</p>
+<li>Saako kaavatontille kaksi liittymää Siimapolulta (katualue /mo)? Tarvitaan kadun omistajan ja kaupungin hyväksyntä.</li>
+<li>Talo on nyt 7,4 m tierajasta ja räystäs 5,4 m. Onko kaavassa rakennusalan rajaa tai muuta etäisyysvaatimusta katuun (nyt tarkistettu: ≥ 4 m rajoista, ei sp-kaistalla)?</li>
+<li>PA:n käytettävyys: lisäpaikalle ajetaan viistosti tai peruuttaen 3,5 m:n liittymästä. Pitäisikö L1:tä leventää tontin puolella (sp-kaistan käyttö kasvaisi)?</li>
+<li>Viheralueen (VR) käyttö ja omistus sekä mahdollinen harvennus talon eteläpuolella näkymän avaamiseksi suolle.</li>
+<li>Korot uudella paikalla pitäisi mitata (vähintään talon nurkat, autokatos, liittymät ja pihan itäpää).</li>
+<li>Määräalan tarkat rajapisteet ja alat täsmentyvät lohkomisessa. Lisäksi on selvitettävä, lasketaanko autokatos ja jätekatos t-alaan (38,3 / 40 m²).</li></ul>
+<p class="note">Luonnos, ei rakennuslupakelpoinen. Korot: MML 2 m korkeusmalli (N2000), koordinaatit EPSG:3067. Päivitetty 27.10.2026.</p>
 <nav><a href="../">Versio A</a><a href="../versio-b/">Versio B (3D)</a><a href="../kartta/">Kartta</a></nav></section>
 </body></html>
